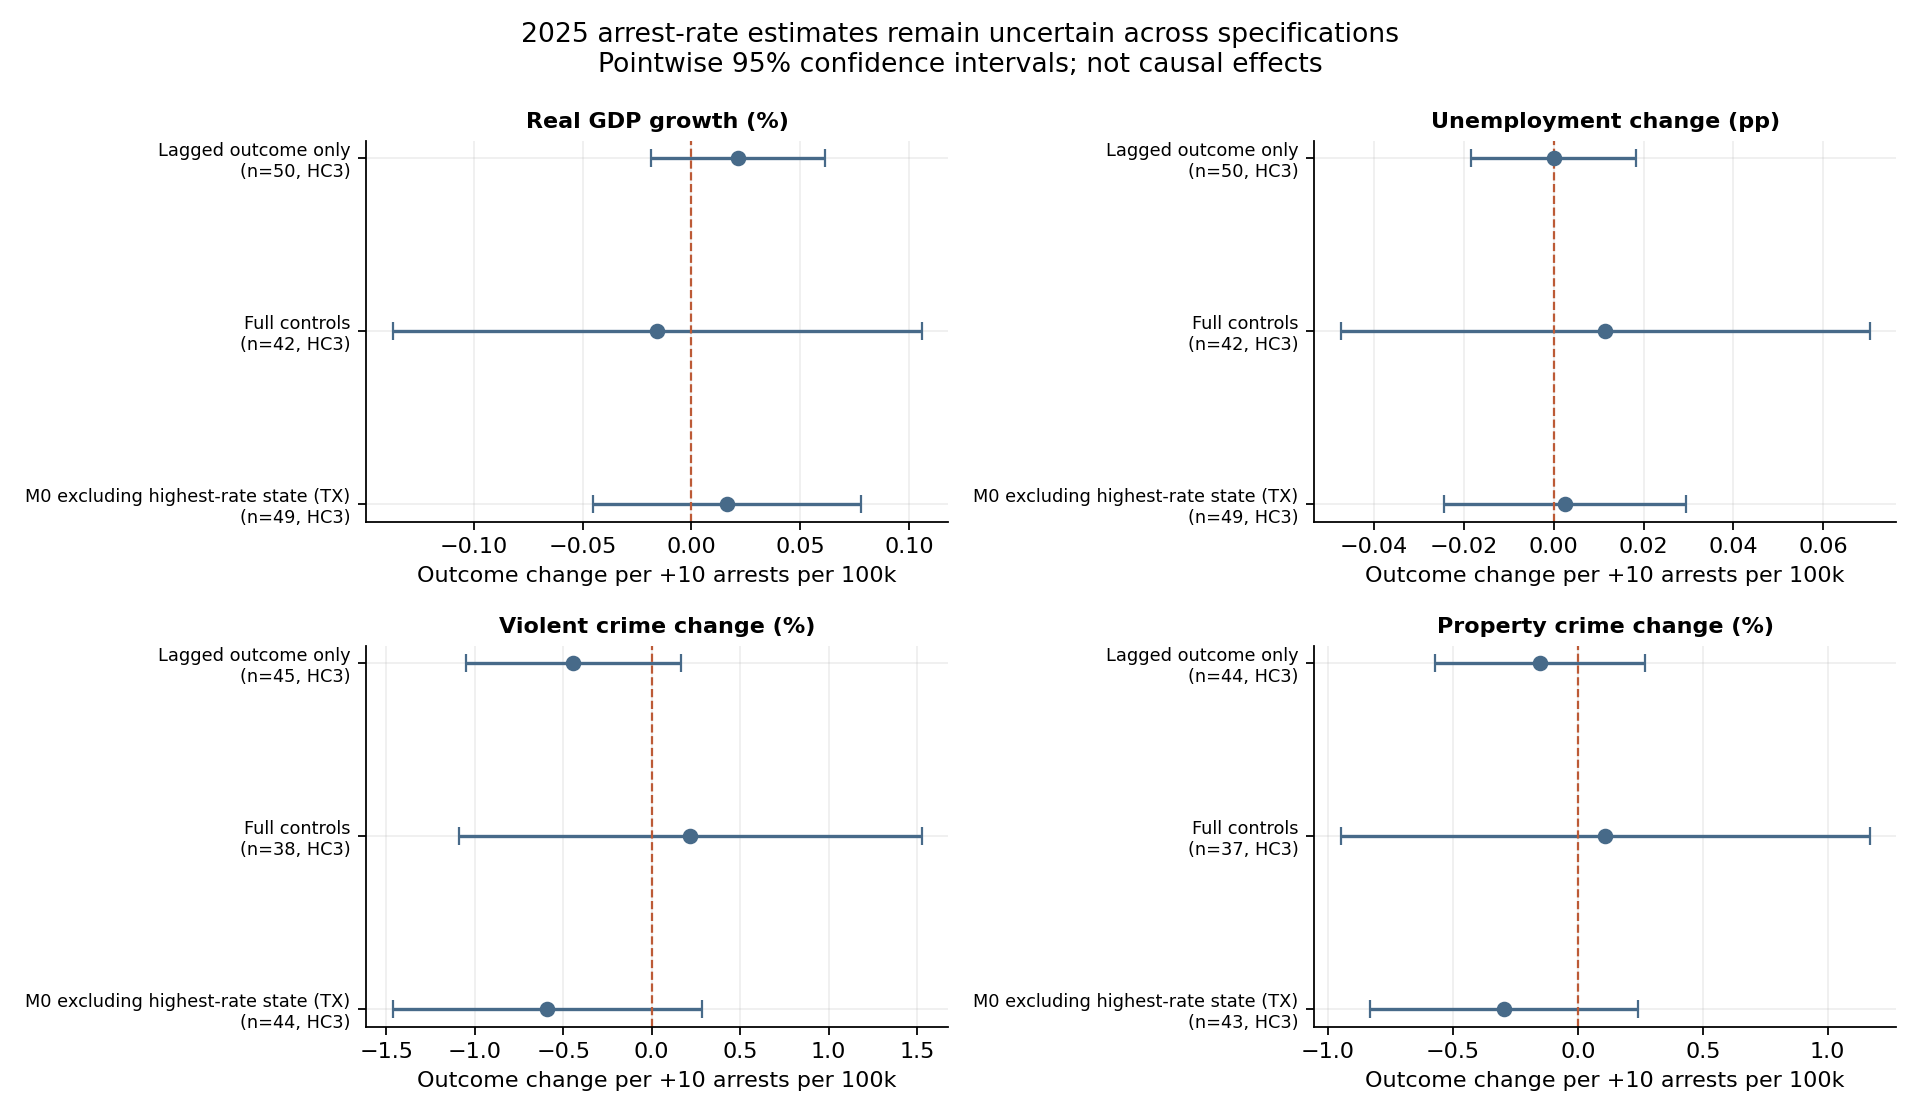
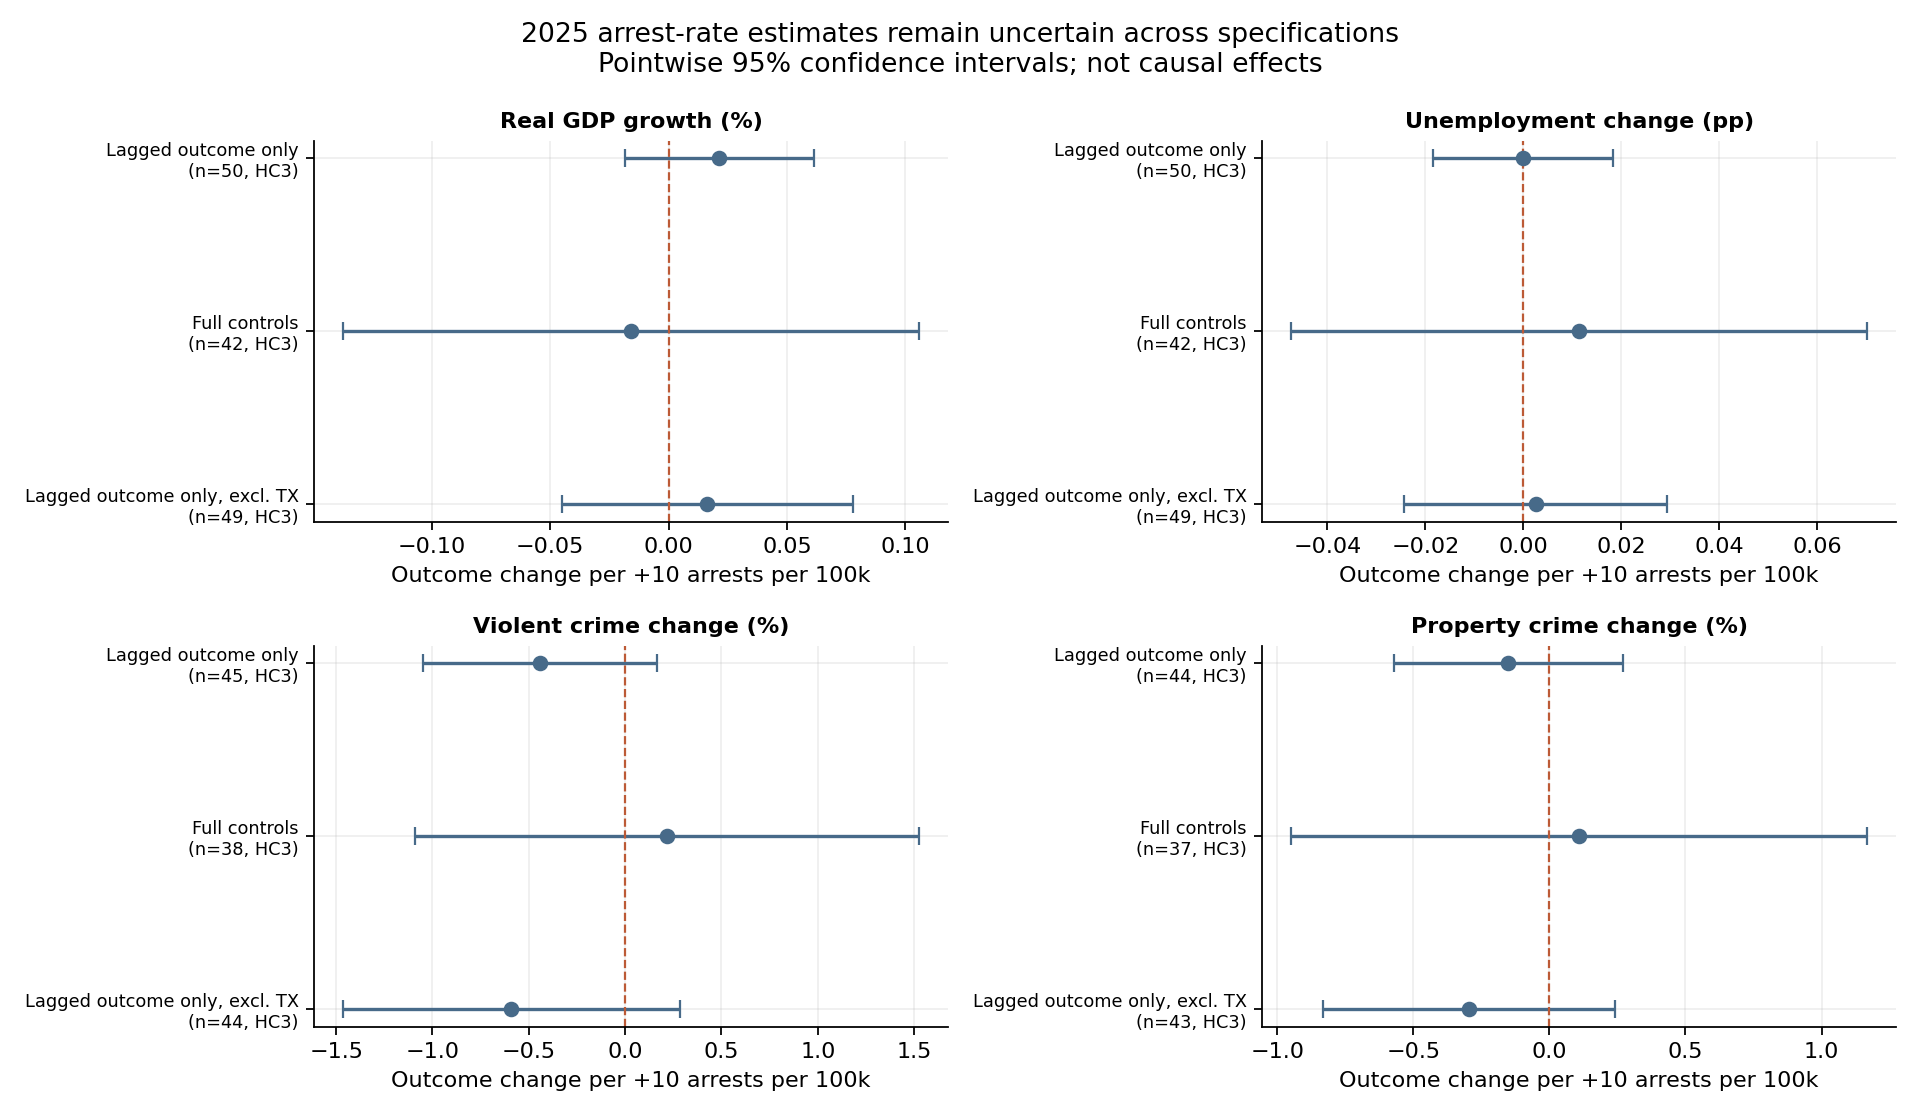
Refine portfolio report from reviewer feedback

diff --git a/notebooks/08_figures.py b/notebooks/08_figures.py
@@ -80,7 +80,7 @@ for ax, label in zip(axes.flat, cols.values()):
     positions = np.arange(len(d))
     ax.errorbar(d.coef, positions, xerr=[d.coef - d.ci_low, d.ci_high - d.coef],
                 fmt="o", capsize=4, color=OLD_COLOR)
-    labels = d.apply(lambda r: f"{r.spec.replace('M0 + lagged outcome', 'Lagged outcome only').replace('M2 + controls', 'Full controls')}"
+    labels = d.apply(lambda r: f"{r.spec.replace('M0 + lagged outcome', 'Lagged outcome only').replace('M0 excluding highest-rate state (TX)', 'Lagged outcome only, excl. TX').replace('M2 + controls', 'Full controls')}"
                               f"\n(n={int(r.n)}, {r.cov_type})", axis=1)
     ax.set_yticks(positions, labels, fontsize=8)
     ax.axvline(0, linestyle="--", color=NEW_COLOR, linewidth=1)

diff --git a/Final Report.md b/Final Report.md
@@ -2,11 +2,11 @@
 
 Micah Holmquist | Deportation Data Project CSV exports dated July 24, 2026
 
-## Question and hypothesis
+## Question and motivation
 
-How did ICE enforcement change, and did states with more enforcement also experience better economic or crime trends?
+How did ICE arrest and detention activity change, and did states with higher arrest rates also experience different economic or crime trends?
 
-Trump and administration officials have argued that unauthorized immigration depresses wages and burdens public resources; Secretary Kristi Noem explicitly linked departures to better job opportunities. The [primary-source appendix](notebooks/POLICY_SOURCES.md) documents these claims without endorsing them. A labor-competition hypothesis predicts better employment or wage outcomes following actual workforce removals, conditional on substitution and adjustment. This project tests only whether **arrest intensity is associated with annual state outcome changes**. It does not observe workers removed from employment; GDP growth is an indirect, exploratory outcome, not a necessary implication of wage or fiscal claims.
+The labor-market effects of enforcement are an empirical question, not a one-direction prediction. East et al. find that Secure Communities reduced employment among likely undocumented immigrants and U.S.-born workers, illustrating how labor-market responses can differ from a simple competition story ([Journal of Labor Economics, 2023](https://doi.org/10.1086/721152)). This project asks a narrower descriptive question: whether **state arrest intensity is associated with annual state outcome changes**. Arrests do not identify workers removed from employment.
 
 ## Main findings
 
@@ -37,14 +37,14 @@ The panel covers 50 states in 2023–2025; complete-case sample sizes vary by ou
 
 Across 64 arrest-related coefficients, **none passes Benjamini–Hochberg q < .10**. Removing Texas, the highest arrest-rate state in 2025, does not resolve uncertainty in the reduced-control models. The [coefficient chart](notebooks/figures/fig6_arrest_coefficients.png) shows both specifications and that sensitivity check. These intervals allow positive and negative associations; they are not equivalence tests or multiplicity-adjusted intervals.
 
+For scale, the interquartile range of 2025 state arrest rates is about **54 per 100,000**, or 5.4 units of the model's +10-per-100,000 scale. Across that range, the lagged-outcome intervals translate to about **−0.10 to +0.10 percentage points** for unemployment change, **−0.10 to +0.33 points** for GDP growth, and **−5.7% to +0.9%** for violent-crime change. Under this specification, the data rule out large unemployment associations, but still allow a meaningful violent-crime reduction.
+
 ## Methods and limitations
 
-Duplicate-drop flags are applied before counting. Arrest comparisons start January 1, 2023 and exclude a stray September 2026 record and the one-record March 11 partial day. January 1, 2025 is a calendar-year descriptive split, **not** the January 20 inauguration or a causal intervention date. Daily rates account for unequal windows; March 2026 remains a partial month. Regression models exclude partial-year 2026.
+Arrest counts are deduplicated records, not unique people or completed removals; apprehension location need not be residence or workplace. The January 1, 2025 split is a calendar-year comparison, not an intervention-date design. March 2026 is partial, and regression models omit partial-year 2026.
 
-Detention ADP is overlapping bed-days divided by actual window days. Facility stints use half-open intervals; missing book-outs fall back to a recorded stay book-out. Otherwise, stints starting in 2025 or later are censored at March 12, 2026; 1,049 older open records are excluded. That date rule is an assumption about uncertain records, not evidence that older open records are artifacts. Completed-stint durations exclude ongoing stints and are neither full-stay durations nor comparable release hazards.
+Detention ADP is overlapping bed-days divided by actual window days. Facility-stint comparisons use recorded book-outs where available and censor qualifying open stints at March 12, 2026; 1,049 older open records are excluded. No release-rate comparison is reported because censoring makes it unreliable.
 
-Repeated-state models use state-clustered t-based inference; 2025-only models use HC3, not nominal clustering with one observation per state. Nine demographic/economic/political controls plus a lagged outcome reduce samples to 37–42 in the full-control 2025 models. Some controls are contemporaneous or measured after the earlier outcomes, so they cannot establish causal adjustment. Small samples, influential states and model dependence limit what null results establish.
+The primary models are parsimonious; full-control models are a sensitivity check. Single-year models use HC3 intervals, and repeated-state models use state-clustered inference. Intervals are pointwise, not multiplicity-adjusted. Small samples, confounding, model dependence, incomplete crime coverage, and unobserved employment limit interpretation; the [technical guide](notebooks/MASTER_RESULTS.md) documents specifications and data handling.
 
-Enforcement may respond to local conditions; labor supply and demand may both change; apprehension state may differ from workplace or residence. Arrests are not completed removals, and employment status is unobserved. Annual averages can obscure delayed or sector-specific effects. Crime indices have incomplete state/agency coverage; state aggregates cannot establish individual effects.
-
-**Conclusion:** the enforcement increase is well supported descriptively. This dataset does not establish a reliable state-level economic or crime association, and cannot confirm or refute the causal economic effects of deportation. [Methods, data provenance and reproducible outputs](notebooks/MASTER_RESULTS.md) provide the supporting detail.
+**Conclusion:** the enforcement increase is well supported descriptively. This dataset does not establish a reliable state-level economic or crime association, and cannot confirm or refute the causal economic effects of deportation.

diff --git a/README.md b/README.md
@@ -1,6 +1,6 @@
 # ICE Detention & Arrests: A Geographic and Statistical Analysis (2022–2026)
 
-[![Tests](https://github.com/micahth/ice-data/actions/workflows/run-eda.yml/badge.svg)](https://github.com/micahth/ice-data/actions/workflows/run-eda.yml)
+[![Tests](https://github.com/micahth/ice-data/actions/workflows/tests.yml/badge.svg)](https://github.com/micahth/ice-data/actions/workflows/tests.yml)
 
 An analysis of U.S. Immigration and Customs Enforcement (ICE) arrest, detainer, and
 detention records released by the [Deportation Data Project](https://deportationdata.org/).
@@ -54,7 +54,7 @@ and state-level economic/crime associations.
 
 - **[Final Report](Final%20Report.md):** primary findings, hypothesis, estimates, intervals, and limitations.
 - **[Technical guide](notebooks/MASTER_RESULTS.md):** cohorts, model specifications, provenance, and generated tables.
-- **[Policy sources](notebooks/POLICY_SOURCES.md):** primary-source claims motivating the question; claims are not treated as findings.
+- **[Labor-market literature](notebooks/LABOR_MARKET_LITERATURE.md):** research motivating the question and distinguishing this descriptive analysis from causal studies.
 - **[Facility activity notes](notebooks/FACILITY_CHANGES.md):** recorded new/stopped activity is not evidence of ownership changes.
 - **[DDP codebook](data/codebook.txt):** third-party source documentation.
 
@@ -126,15 +126,12 @@ LICENSE                   MIT license for the project code
 
 ## Limitations
 
-This is descriptive and correlational, not causal inference. Apprehension location is
-not necessarily residence or workplace. The analysis does not observe work
-authorization, employment, deportation outcomes, or voluntary departures. GDP growth
-is not a necessary consequence of wage or fiscal claims; labor supply and demand can
-both change. Small state samples, missing outcomes, confounding, changing enforcement
-targets, and wide confidence intervals preclude ruling out meaningful effects.
-Facility-location population denominators are not resident detention rates, and
-operator labels are inferred. See the [Final Report](Final%20Report.md) and
-[technical guide](notebooks/MASTER_RESULTS.md) for details.
+This is descriptive and correlational, not causal: arrests are not completed
+removals, and employment is unobserved. Apprehension locations and facility-
+population denominators do not measure where people live or residents' likelihood
+of detention. Small samples, confounding, incomplete outcomes and wide intervals
+limit conclusions; see the [Final Report](Final%20Report.md) and
+[technical guide](notebooks/MASTER_RESULTS.md).
 
 ## Data citation
 

diff --git a/notebooks/LABOR_MARKET_LITERATURE.md b/notebooks/LABOR_MARKET_LITERATURE.md
@@ -1,0 +1,9 @@
+# Labor-market literature and research motivation
+
+Research on immigration enforcement finds effects that are not captured by a simple labor-competition account. East, Hines, Luck, Mansour and Velásquez study Secure Communities, a police-based enforcement policy implemented from 2008 to 2013. Using variation in implementation across local areas and over time, they find decreases in employment among likely undocumented immigrants and U.S.-born people, as well as lower hourly wages for U.S.-born workers. They discuss higher labor costs and reduced local consumption as possible mechanisms.
+
+> East, Chloe N., Annie L. Hines, Philip Luck, Hani Mansour, and Andrea Velásquez. 2023. “The Labor Market Effects of Immigration Enforcement.” *Journal of Labor Economics* 41(4): 957–996. [https://doi.org/10.1086/721152](https://doi.org/10.1086/721152).
+
+That study and this project examine different interventions, periods, units and outcomes. Secure Communities was a local-area policy with staggered implementation; this project uses annual state arrest rates as an imperfect proxy for enforcement exposure. Arrests do not establish that someone was employed, removed from the workforce or deported. The current analysis is descriptive and cannot identify the causal labor-market effects of enforcement.
+
+Labor supply and demand, production complementarities, consumer demand, enforcement targeting and adjustment over time can all shape observed outcomes. Wage and employment measures would address labor-market claims more directly than aggregate GDP; those measures are not available in these data. Crime outcomes are a separate question and are not implied by labor-market findings.

diff --git a/notebooks/MASTER_RESULTS.md b/notebooks/MASTER_RESULTS.md
@@ -22,7 +22,7 @@ Facility county → OMB CBSA and Census region. Known county without a CBSA is n
 
 ## Research design and uncertainty
 
-The [policy-source appendix](POLICY_SOURCES.md) explains the economic motivation and competing mechanisms. GDP growth is exploratory, unemployment is closer to the labor-market claim, and wages/fiscal savings are not observed. Crime regressions describe a separate association, without identifying whether enforcement changes crime or responds to it.
+The [labor-market literature appendix](LABOR_MARKET_LITERATURE.md) explains the economic motivation and competing mechanisms. GDP growth is exploratory, unemployment is closer to the labor-market question, and wages/fiscal outcomes are not observed. Crime regressions describe a separate association, without identifying whether enforcement changes crime or responds to it.
 
 Primary association models (`M0`) include exposure per 10/100k, the lagged outcome and, for repeated years, year fixed effects. They are parsimonious descriptions, not causal estimates or state-fixed-effects models. `M1` is bivariate; `M2` adds log population, log density, population growth, log income, bachelor's share, Hispanic share, median age, 2024 Republican vote share and lagged change in ages-15–29 share. Controls describe scale, urbanization, socioeconomic context, demographic composition and political context; their choice was exploratory, not preregistered. Static ACS and 2024 vote measures cannot be interpreted as wholly pre-treatment controls for 2023.
 
